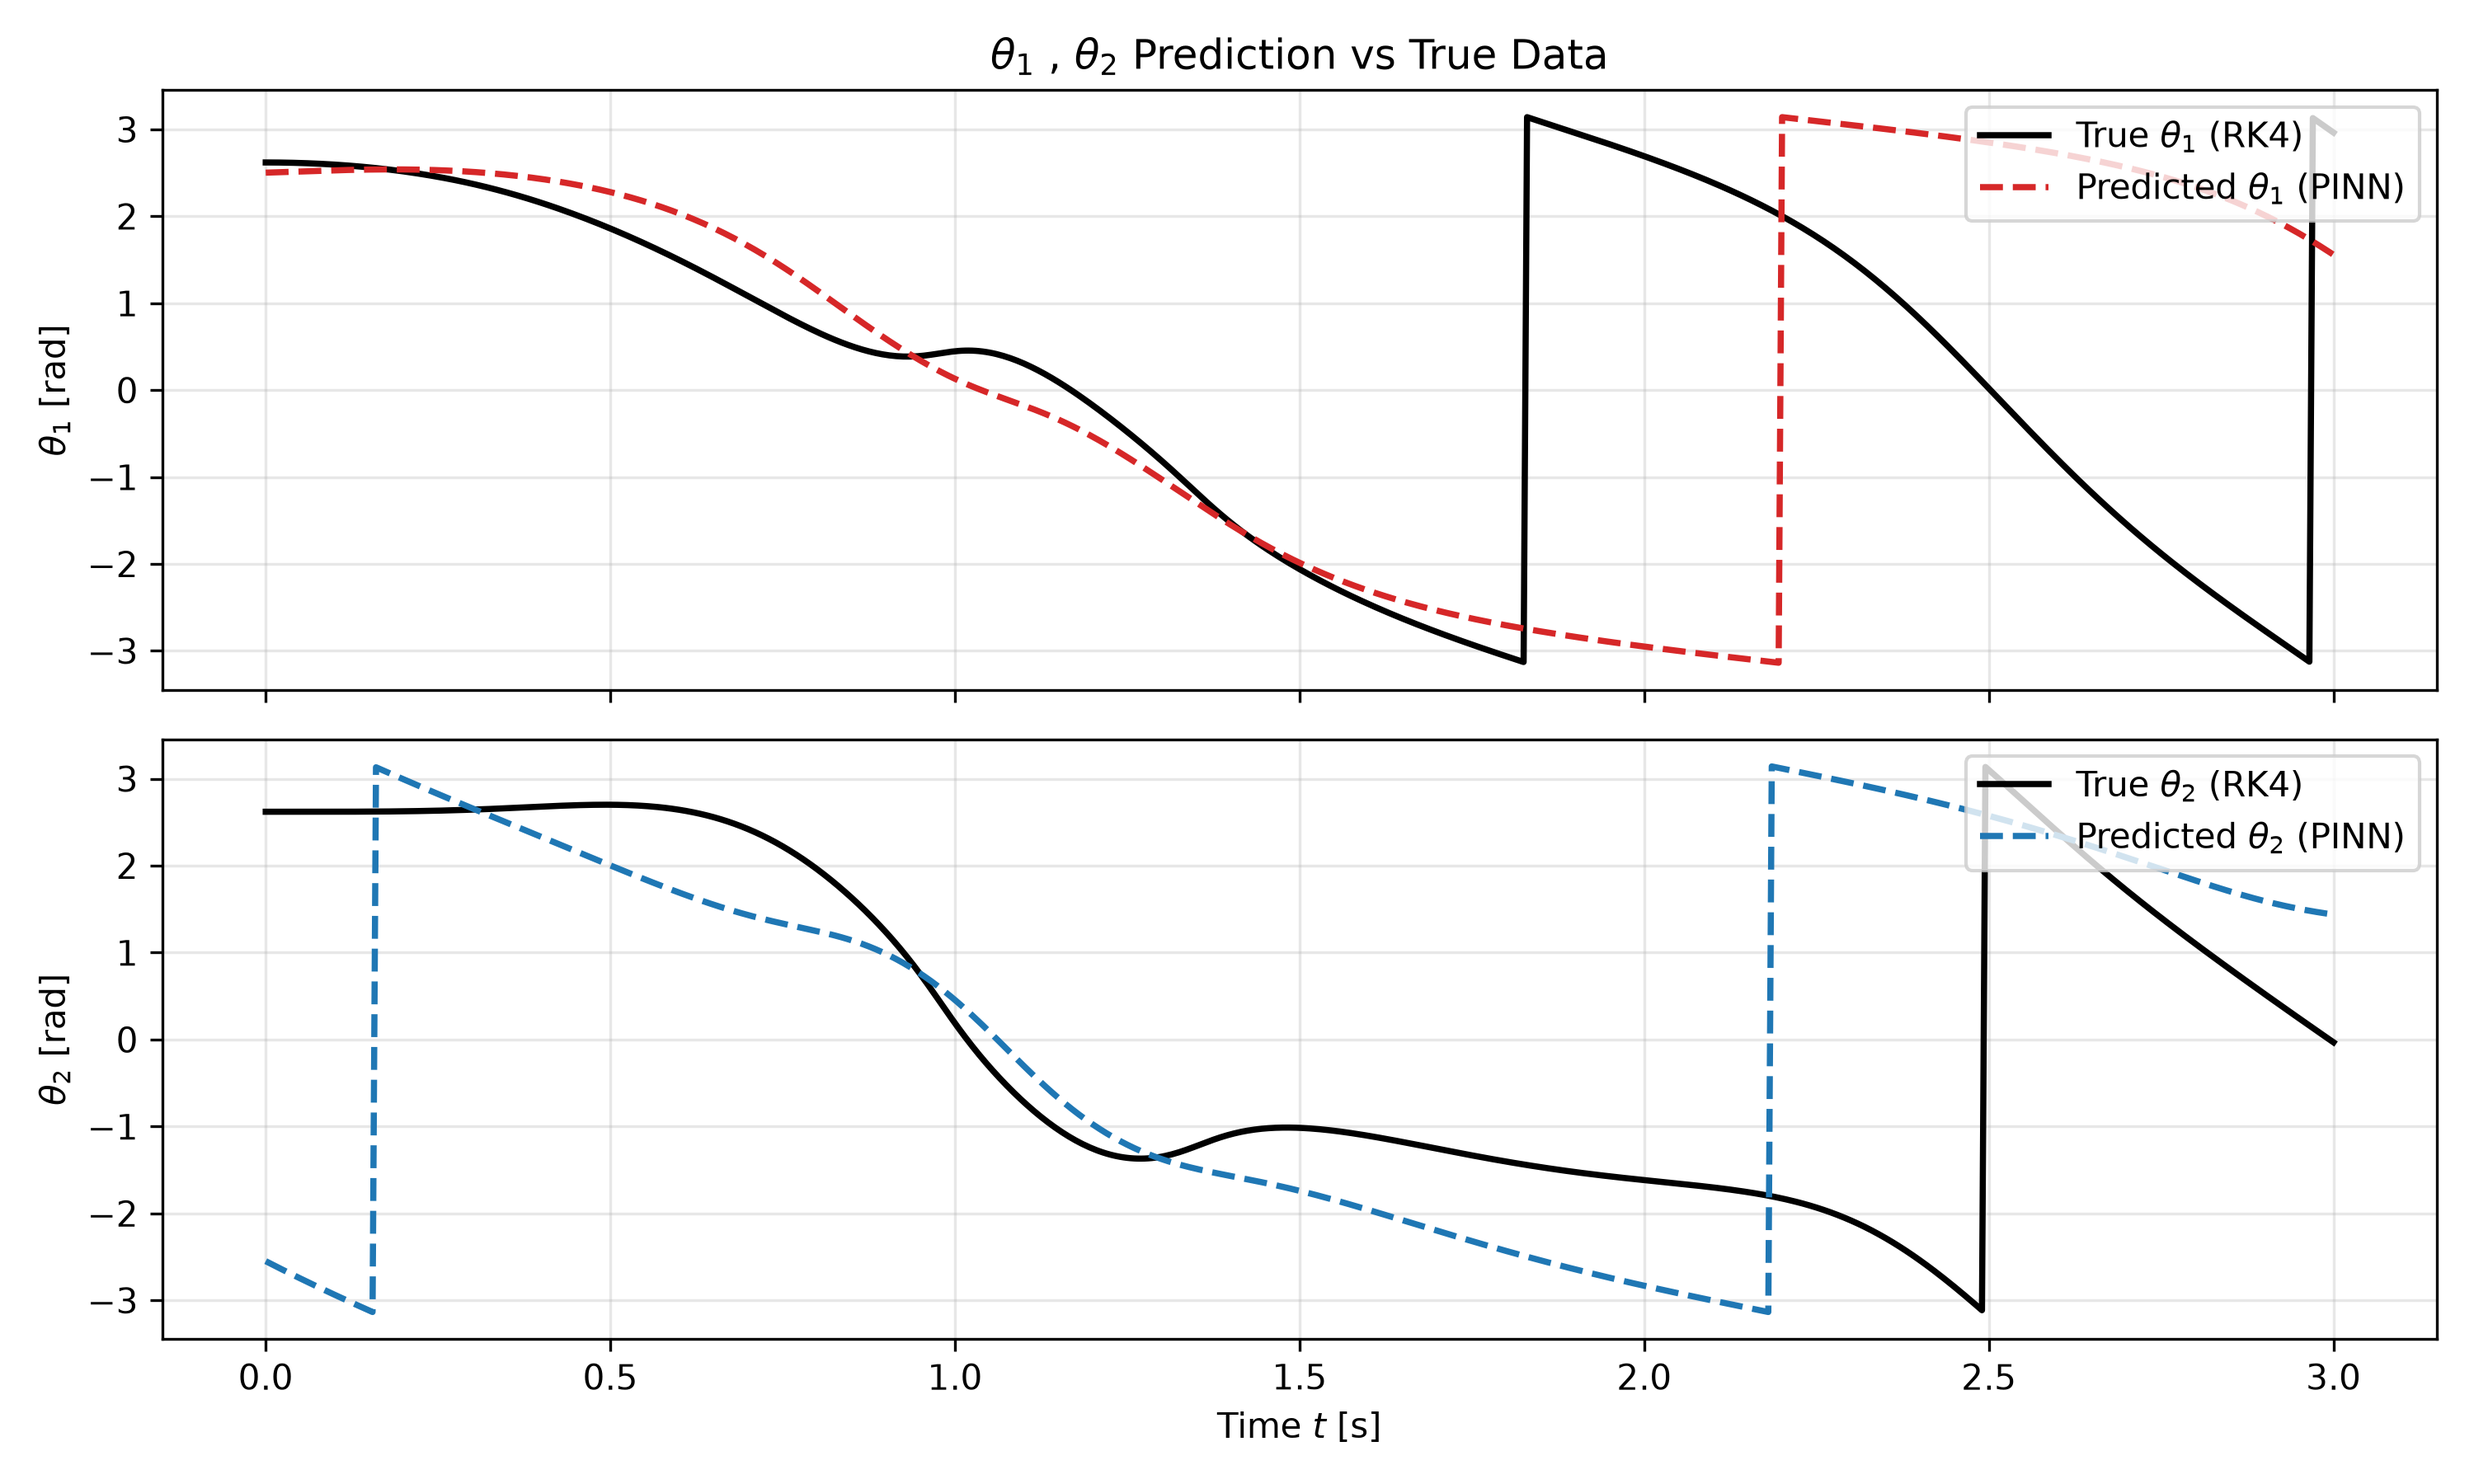
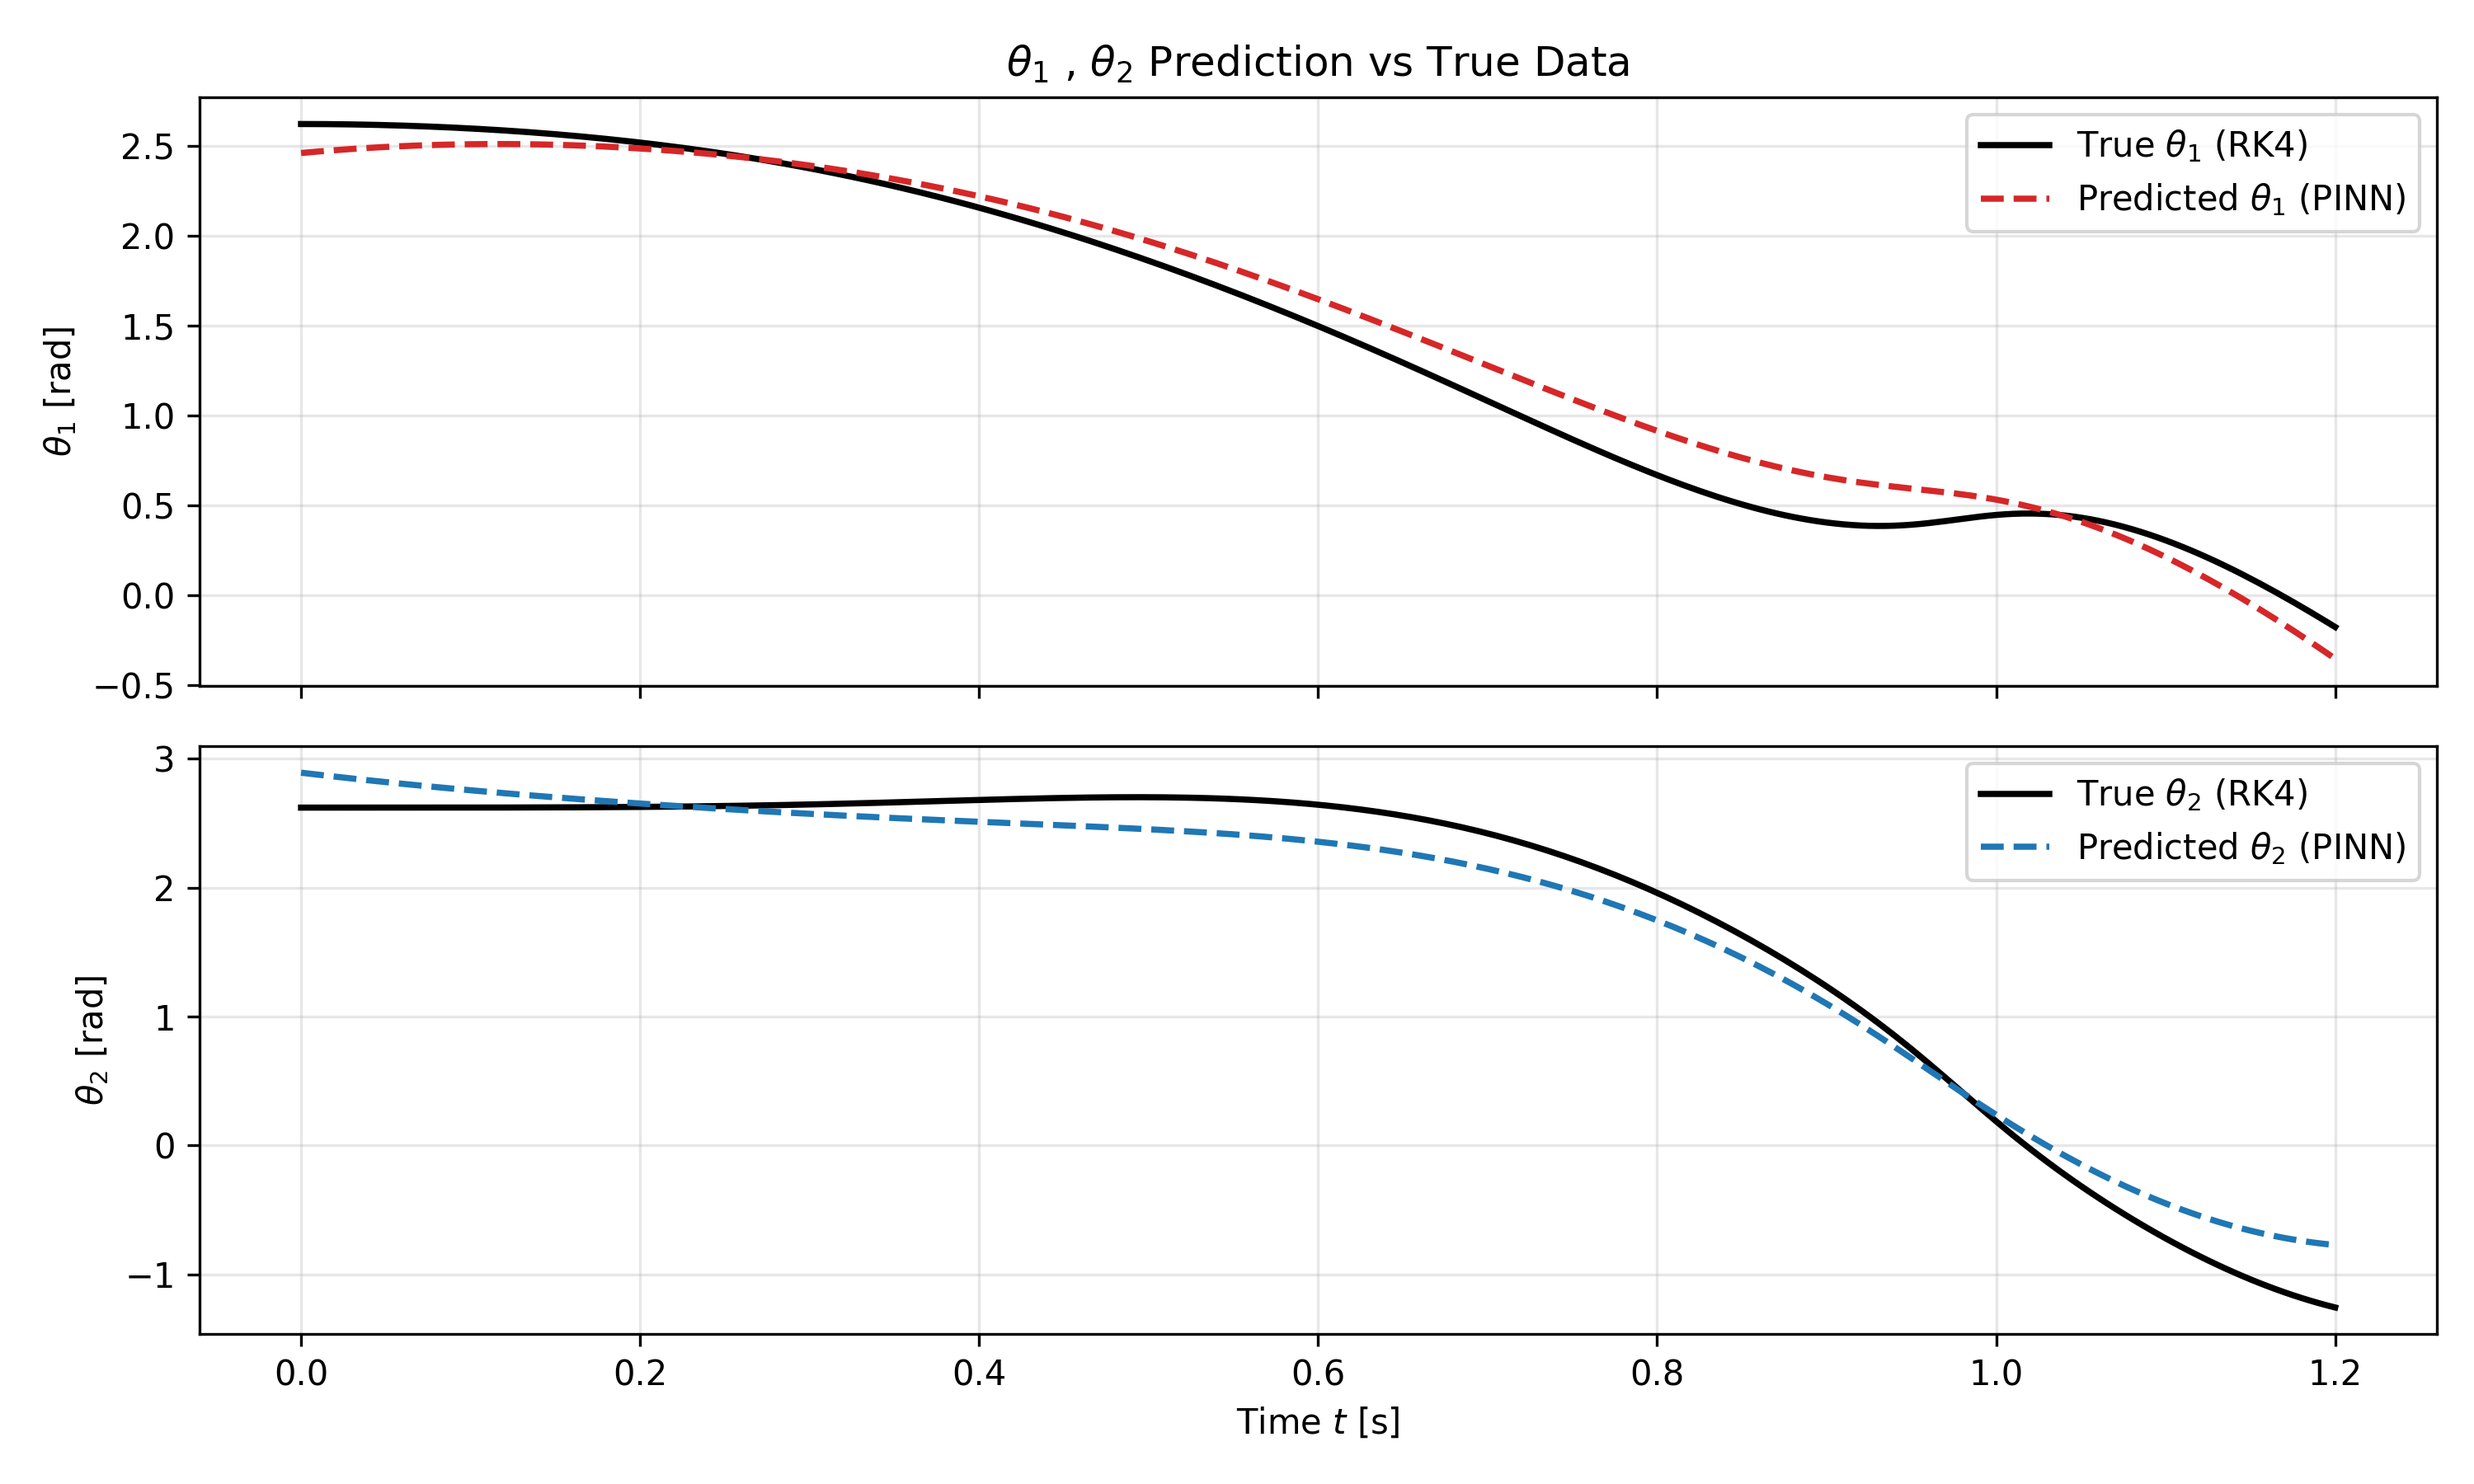
more exp

diff --git a/discrete_pinn/doublepend/train_model.py b/discrete_pinn/doublepend/train_model.py
@@ -181,7 +181,7 @@ def get_prediction (model, timestep, data):
 def train_model ():
     
 
-    timestep, data, pend_param = data_setup(num_steps=1001, dt=0.005)
+    timestep, data, pend_param = data_setup(num_steps=401, dt=0.005)
     train_data, val_data, test_data = data_split(timestep, data, train_len_percent=0.6, val_len_percent=0.2 )
 
     t_train, y_train = train_data 

diff --git a/discrete_pinn/doublepend/main.py b/discrete_pinn/doublepend/main.py
@@ -2,13 +2,11 @@ from train_model import train_model
 
 def main ():
 
-    total_loss = 0
-    for i in range(3):
-        model , history, test_loss = train_model()
+    
+    train_model()
 
-        total_loss = test_loss + total_loss
+        
 
-    print(f"AVERAGE LOSS * {total_loss}")
 
 if __name__ == "__main__":
 
